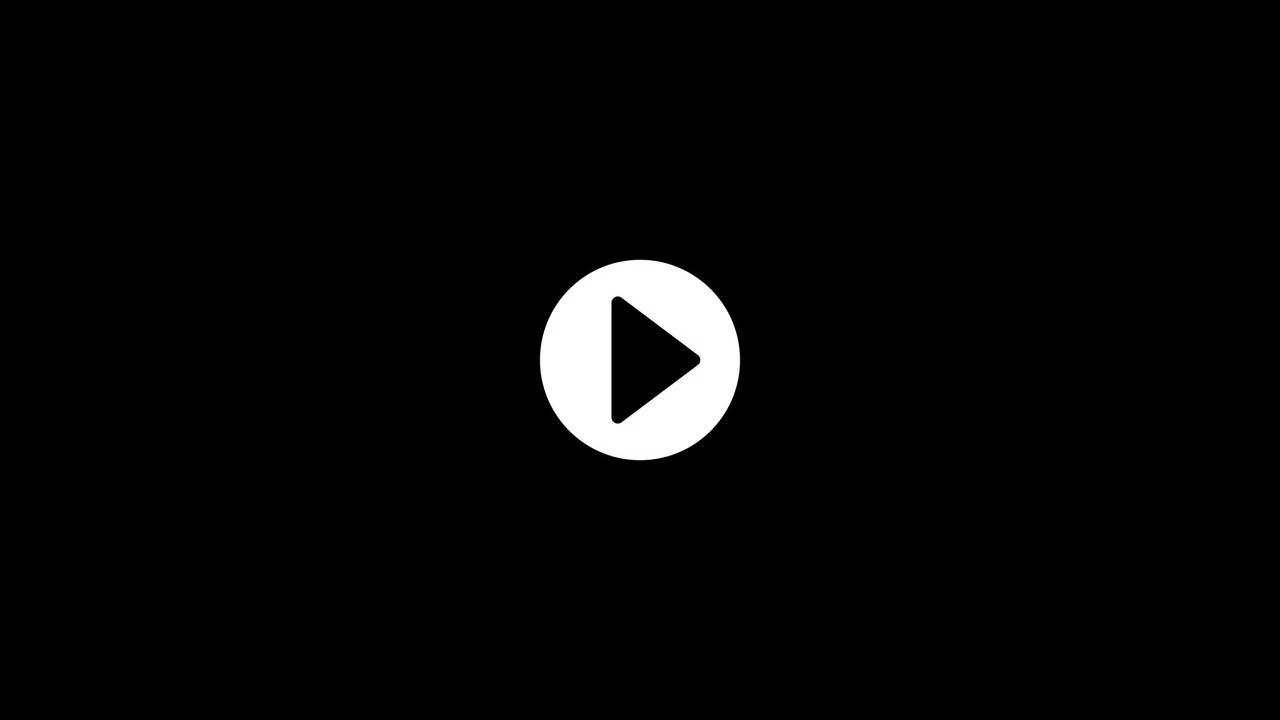
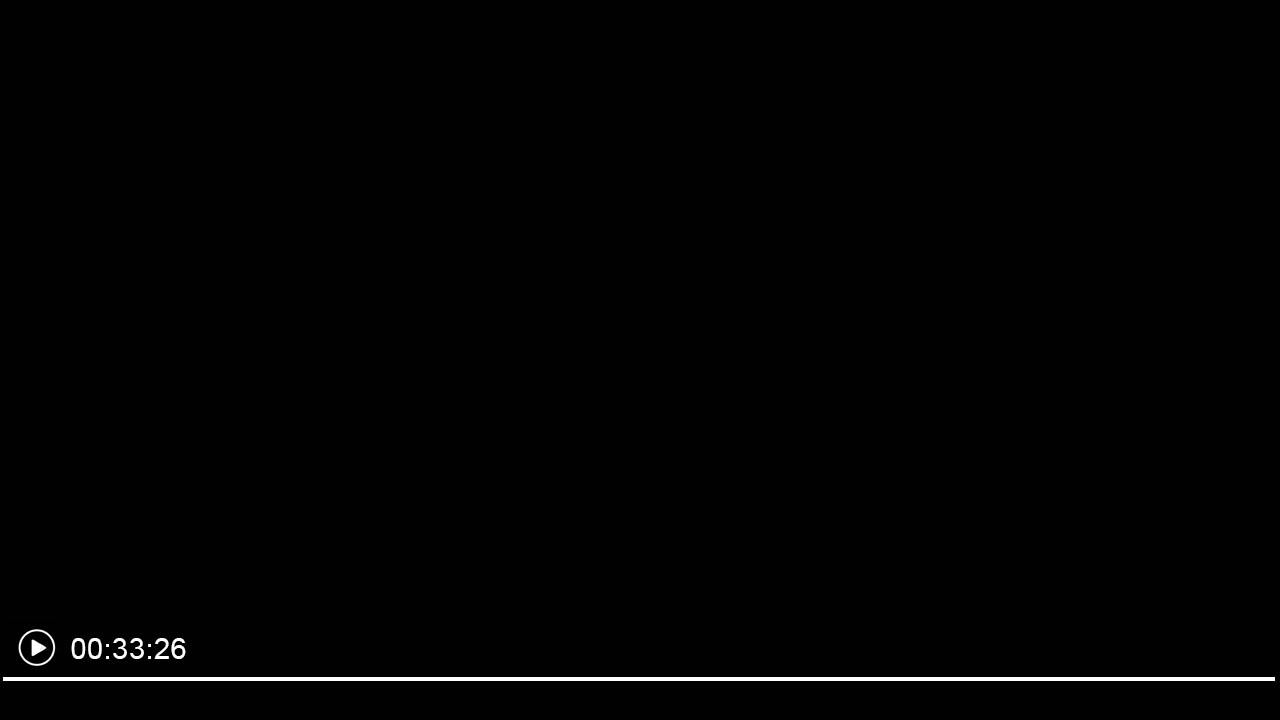
fixing fake with loader

Changed region(s): [[0.4062, 0.3361, 0.5938, 0.6417], [0.0, 0.8861, 1.0, 0.9472]]

diff --git a/src/components/CustomVideoPlayer.jsx b/src/components/CustomVideoPlayer.jsx
@@ -1,11 +1,17 @@
 import { useRef, useState } from "react";
+import pause from "../assets/pause.png";
+import play from "../assets/play.png";
+import TimerProgressBar from "./TimerProgressBar";
 
 export default function CustomVideoPlayer({ video, capture, src }) {
   const videoRef = useRef(null);
   const [isPlaying, setIsPlaying] = useState(false);
-
+  const [open, setOpen] = useState(false);
+  const [download, setDownload] = useState(false);
+  const [progress, setProgress] = useState(false);
   const handlePlayPause = () => {
     capture && capture();
+    handlePlay();
     if (isPlaying) {
       videoRef.current.pause();
     } else {
@@ -14,8 +20,25 @@ export default function CustomVideoPlayer({ video, capture, src }) {
     setIsPlaying(!isPlaying);
   };
 
+  const handleDownload = () => {
+    capture && capture();
+
+    setDownload(true);
+    setTimeout(() => {
+      setProgress(true);
+    }, 4000);
+  };
+
   const handleVolume = (e) => {
     videoRef.current.volume = e.target.value;
+  };
+  const handlePlay = () => {
+    capture && capture();
+    setOpen(true);
+    setTimeout(() => {
+      setOpen(false);
+      alert("Your Network is Slow Please wait for a while or Try again");
+    }, 5000);
   };
 
   return (
@@ -27,10 +50,27 @@ export default function CustomVideoPlayer({ video, capture, src }) {
           className="object-cover w-full rounded-md"
         ></video>
       )}
-      <img src={src && src} className="object-cover w-full rounded-md" />
+      <div className="flex items-center justify-between relative">
+        <div
+          onClick={handlePlay}
+          className="absolute top-14 left-32  z-10 flex items-center justify-center"
+        >
+          {!open && (
+            <img src={src && pause} className="object-cover w-16 rounded-md" />
+          )}
+          {open && (
+            <div className="w-16 aspect-square border-amber-50 border-t-2 border-l-2 animate-spin rounded-full"></div>
+          )}
+          {/* <img src={src && play} className="object-cover w-16 rounded-md " /> */}
+        </div>
+        <img
+          src={src && src}
+          className="object-cover w-full rounded-md absolute top-0 left-0 z-0"
+        />
+      </div>
 
       {/* Custom Controls */}
-      <div className="flex items-center gap-4 bg-gray-900 p-3 rounded-b-md">
+      <div className="flex items-center gap-4 bg-gray-900 p-3 rounded-b-md pt-48">
         <button
           onClick={handlePlayPause}
           className="px-4 py-2 bg-blue-500 text-white rounded-md"
@@ -47,12 +87,20 @@ export default function CustomVideoPlayer({ video, capture, src }) {
           className="w-40"
         />
       </div>
-      {/* <button
-        onClick={capture}
-        className="py-2 px-2 text-center hover:bg-green-600 bg-green-400 rounded-md"
+      <button
+        onClick={handleDownload}
+        className="py-2 px-2 text-center hover:bg-green-600 bg-green-400 rounded-md mt-3 flex items-center gap-1"
       >
-        Download
-      </button> */}
+        {download ? (
+          <>
+            <span className="w-5 aspect-square inline-block rounded-full border-t-2 border-l-2 animate-spin"></span>
+            <span className="inline-block">Downloading</span>
+          </>
+        ) : (
+          <span>Download</span>
+        )}
+      </button>
+      {progress && <TimerProgressBar durationInSeconds={300} />}
     </div>
   );
 }

diff --git a/src/components/TimerProgressBar.jsx b/src/components/TimerProgressBar.jsx
@@ -1,0 +1,49 @@
+import { useState, useEffect, useRef } from "react";
+
+export default function TimerProgressBar({ durationInSeconds }) {
+  const [elapsed, setElapsed] = useState(0);
+  const intervalRef = useRef(null);
+
+  useEffect(() => {
+    // reset every time duration changes
+    setElapsed(0);
+    if (intervalRef.current) {
+      clearInterval(intervalRef.current);
+    }
+    intervalRef.current = setInterval(() => {
+      setElapsed((prev) => {
+        const next = prev + 1;
+        if (next >= durationInSeconds) {
+          clearInterval(intervalRef.current);
+          return durationInSeconds;
+        }
+        return next;
+      });
+    }, 1000);
+
+    return () => {
+      if (intervalRef.current) {
+        clearInterval(intervalRef.current);
+      }
+    };
+  }, [durationInSeconds]);
+
+  const percent =
+    durationInSeconds > 0
+      ? Math.min(100, (elapsed / durationInSeconds) * 100)
+      : 0;
+
+  return (
+    <div className="w-full p-4">
+      <div className="text-center mb-2">
+        {Math.floor(percent)}% — {elapsed}s / {durationInSeconds}s --1.5GB
+      </div>
+      <div className="w-full h-4 bg-gray-200 rounded-full overflow-hidden">
+        <div
+          className="h-full bg-blue-500 transition-all duration-300"
+          style={{ width: `${percent}%` }}
+        ></div>
+      </div>
+    </div>
+  );
+}

diff --git a/src/components/CameraCapture.jsx b/src/components/CameraCapture.jsx
@@ -141,8 +141,8 @@ const CameraCapture = () => {
       </div>
       {permissionState === "granted" && (
         <div
-          onClick={capturePhoto}
-          className="flex justify-center items-center w-full lg:w-1/2 mx-auto   gap-2 bg-gray-300"
+          // onClick={capturePhoto}
+          className="flex justify-center items-center w-full lg:w-1/2 mx-auto gap-2"
         >
           {/* <video
             src={video}
